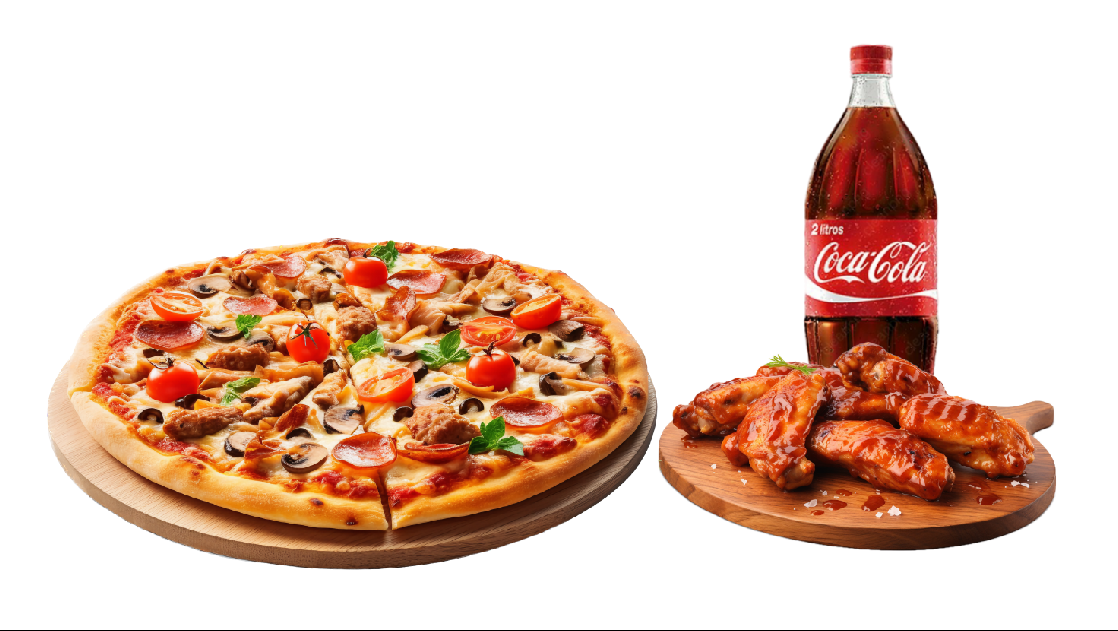
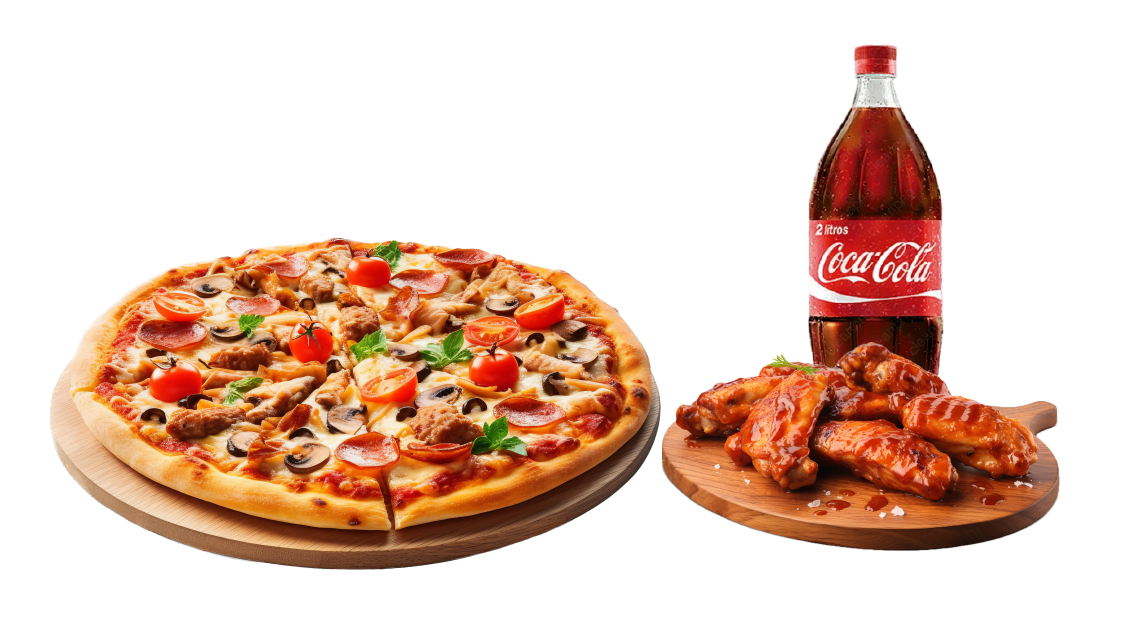
style: change object fit for deal images so deal items dont overflow and get out of view

Changed region(s): [[0.0304, 0.1821, 0.9428, 0.9105], [0.7603, 0.0607, 0.8211, 0.2125]]

diff --git a/src/App.css b/src/App.css
@@ -342,7 +342,7 @@ footer {
 .dealImg {
   width: 100%;
   height: 250px;
-  object-fit: cover;
+  object-fit: contain;
 }
 
 .dealTitle {
